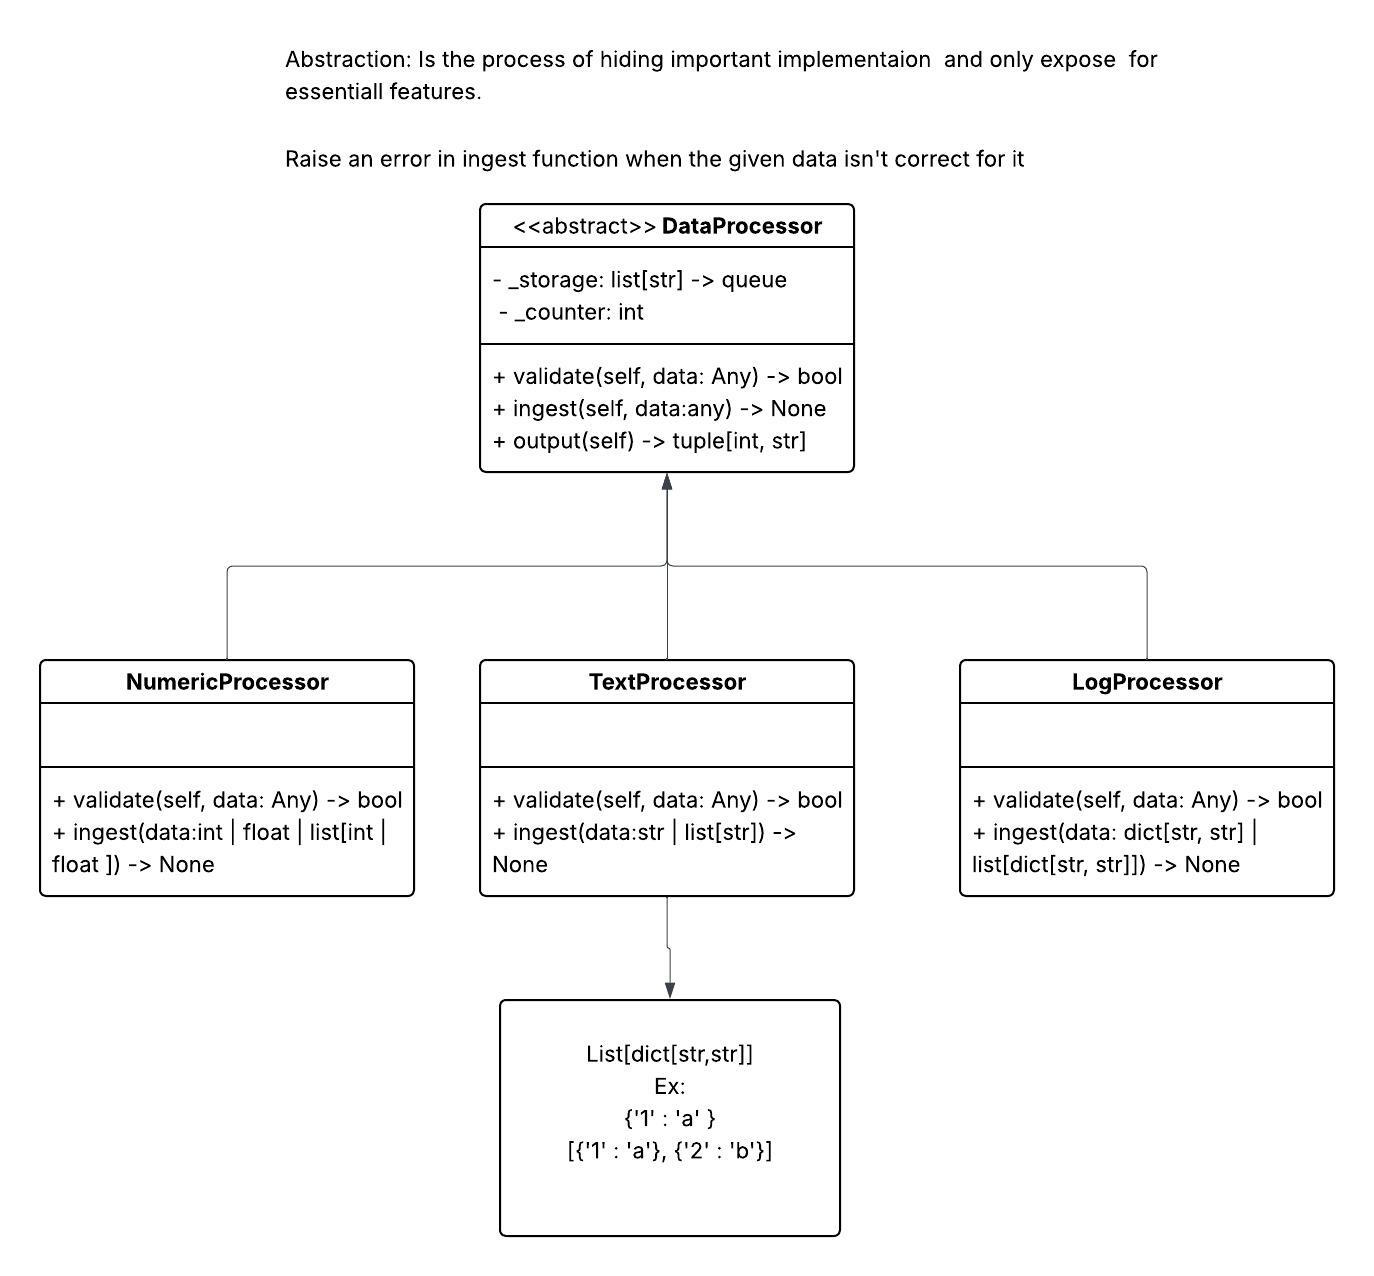
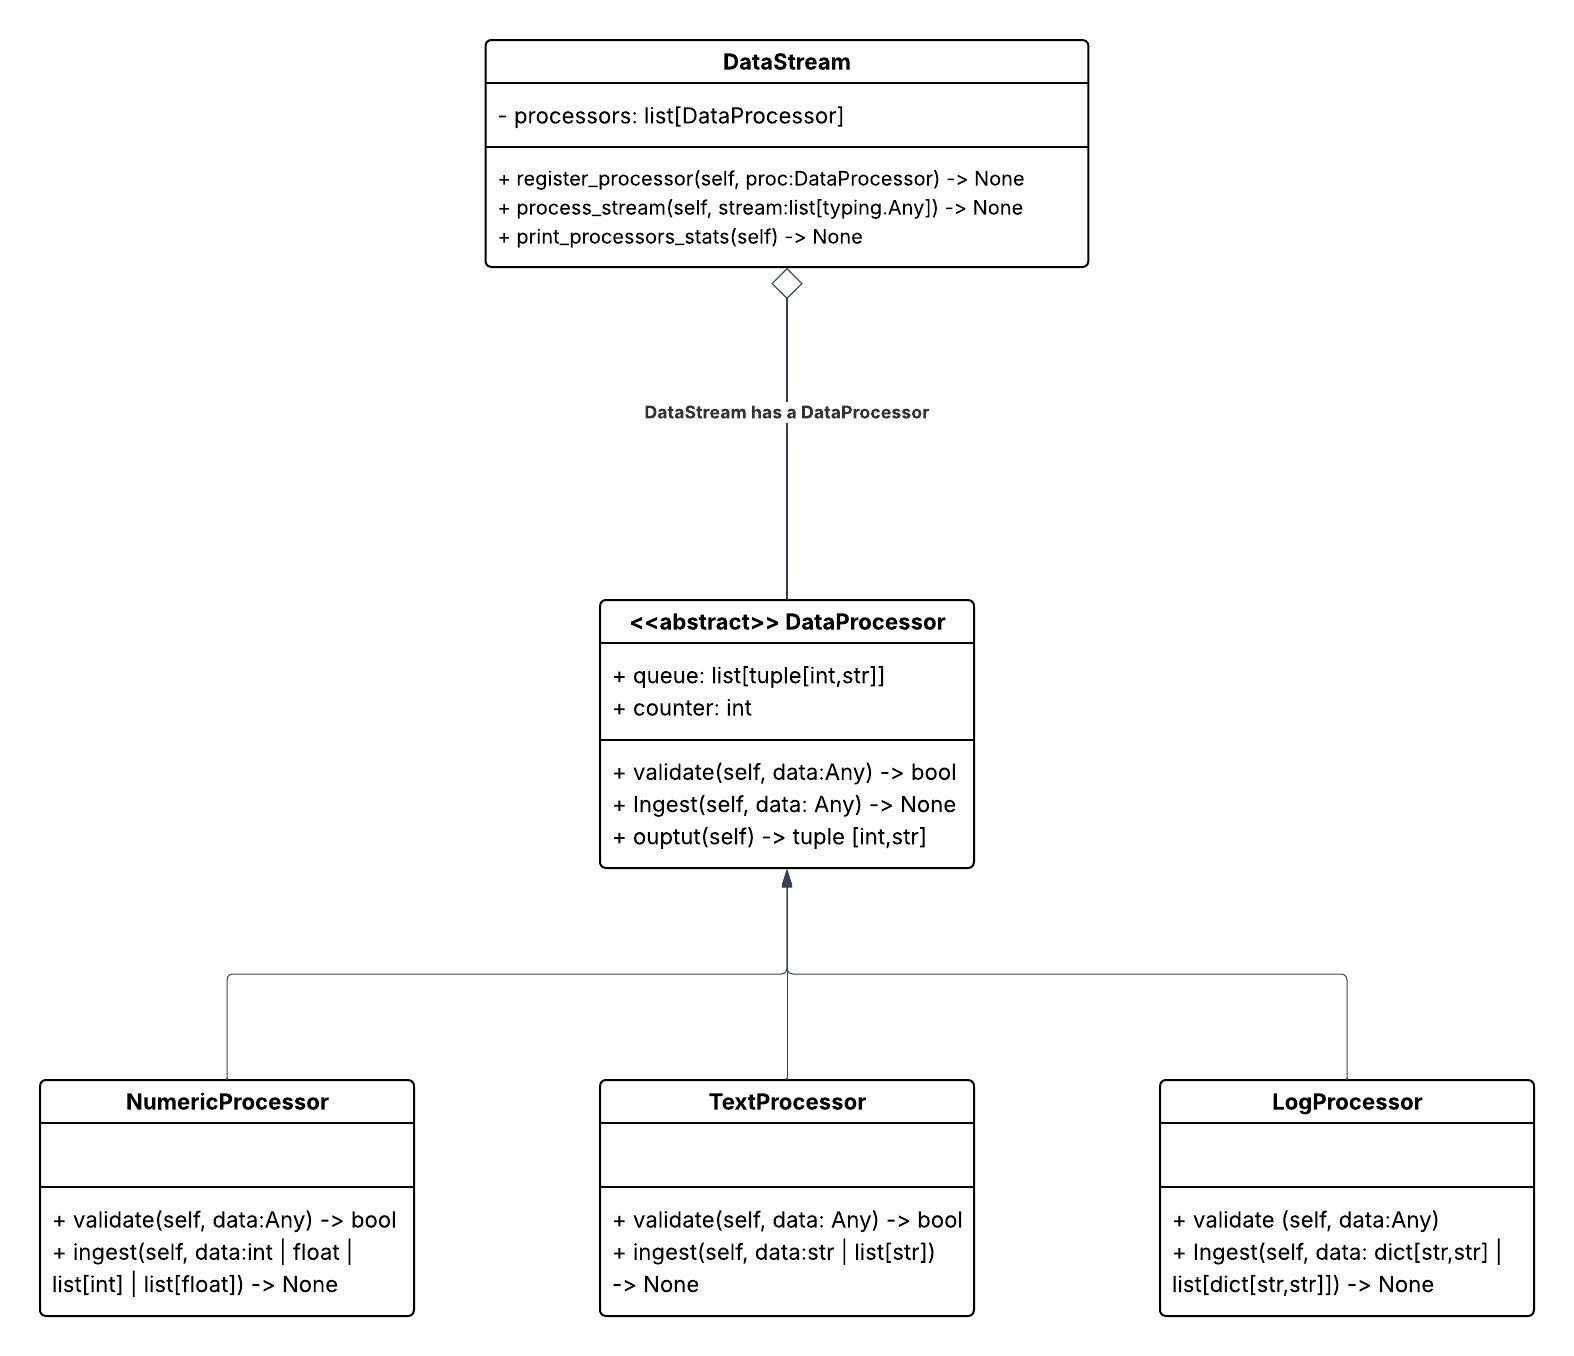
data stream implmemntaion

diff --git a/src/data_processor.py b/src/data_processor.py
@@ -1,4 +1,3 @@
-
 from abc import ABC, abstractmethod
 from typing import Any
 
@@ -135,29 +134,52 @@ The key, value in dict must be string.")
             print(f"Got exception: {e}")
 
 
+if __name__ == "__main__":
+    print("=== Code Nexus - Data Processor ===\n")
 
-class DataStream:
-    def __init__(self) -> None:
-        self.processors: list[DataProcessor] = []
-    def register_processor(self, proc:DataProcessor):
-        self.processors.append(proc)
-    
-    def process_stream(self, stream: list[Any]):
-        for data in stream:
-           handle = False 
-           try: 
-            for proc in self.processors:
-                if proc.validate(data):
-                    proc.ingest(data)
-                    handle = True 
-            if not handle:
-                    raise ValueError(f"Can't process element in stream: {data}")
-           except Exception as e:
-                 print(f"DataStream error - {e}")
+    print("Testing Numeric Processor...")
+    numeric_processor = NumericProcessor()
+    print("Trying to validate data '42':", end=" ")
+    print(numeric_processor.validate(42))
+    print("Trying to validate data 'Hello':", end=" ")
+    print(numeric_processor.validate("Hello"))
+    print("Test invalid ingestion of string 'foo' without prior validation:")
+    numeric_processor.ingest("foo")
+    list1 = [1, 2, 3, 4, 5]
+    print(f"Processing data: {list1}")
+    numeric_processor.ingest(list1)
+    value1 = numeric_processor.output()
+    print(f"Numeric value {value1[0]}: {value1[1]}")
+    value1 = numeric_processor.output()
+    print(f"Numeric value {value1[0]}: {value1[1]}")
+    value1 = numeric_processor.output()
+    print(f"Numeric value {value1[0]}: {value1[1]}")
 
-        
-            
+    print()
+    print("Testing Text Processor...")
+    text_processor = TextProcessor()
+    print(f"Trying to validate input '42': {text_processor.validate(42)}")
+    list2 = ["Hello", "Nexus", "World"]
+    print(f"Processing data: {list2}")
+    print("Extracting 1 value...")
+    text_processor.ingest(list2)
+    value2 = text_processor.output()
 
-if __name__== "__main__":
+    print(f"Text value {value2[0]}: {value2[1]}")
+    print()
+    print("Testing Log Processor...")
+    log_processor = LogProcessor()
 
-
+    print(f"Trying \
+to validate input 'Hello': {log_processor.validate('Hello')}")
+    list3 = [
+        {"log_level": "NOTICE", "log_message": "Connection to server"},
+        {"log_level": "ERROR", "log_message": "Unauthorized access!!"},
+    ]
+    print(f"Processing data: {list3}")
+    log_processor.ingest(list3)
+    print("Extracting 2 values...")
+    value3 = log_processor.output()
+    print(f"Log entry {value3[0]}: {value3[1]}")
+    value3 = log_processor.output()
+    print(f"Log entry {value3[0]}: {value3[1]}")

diff --git a/README.md b/README.md
@@ -17,19 +17,24 @@ Key concepts demonstrated:
 * Plugin architecture with duck typing
 * Clean and modular system design
 
+* [Class-Diagram (In Lucid chart)](https://lucid.app/lucidchart/f296c209-ea0f-4eaf-af5f-77a629cb30e2/edit?viewport_loc=-331%2C-409%2C2087%2C1151%2C0_0&invitationId=inv_a8584705-0b0d-4a0d-969c-be8ecb2b28df)
 
 ## data_processor.py 
 
 This file implements a modular data processing system using object-oriented design and abstract base classes. It defines a common interface for handling different types of data while allowing each processor to apply its own validation and transformation logic.
 
-The system supports processing:
+* The system supports processing:
 
-Numeric data
-Text data
-Structured log data
+  Numeric data
+  Text data
+  Structured log data
 
 All processors follow a unified workflow:
 validate → ingest → store → output (FIFO)
 
-![Data Processor Workflow](pic/data_stream_class_diagram.jpeg)
+![Data Processor class diagram](pic/DataProcessor_class_diagram.jpeg)
 
+
+## data_stream.py 
+
+![Data stream aggregation realationShip](pic/data_stream_class_diagram.jpeg)
